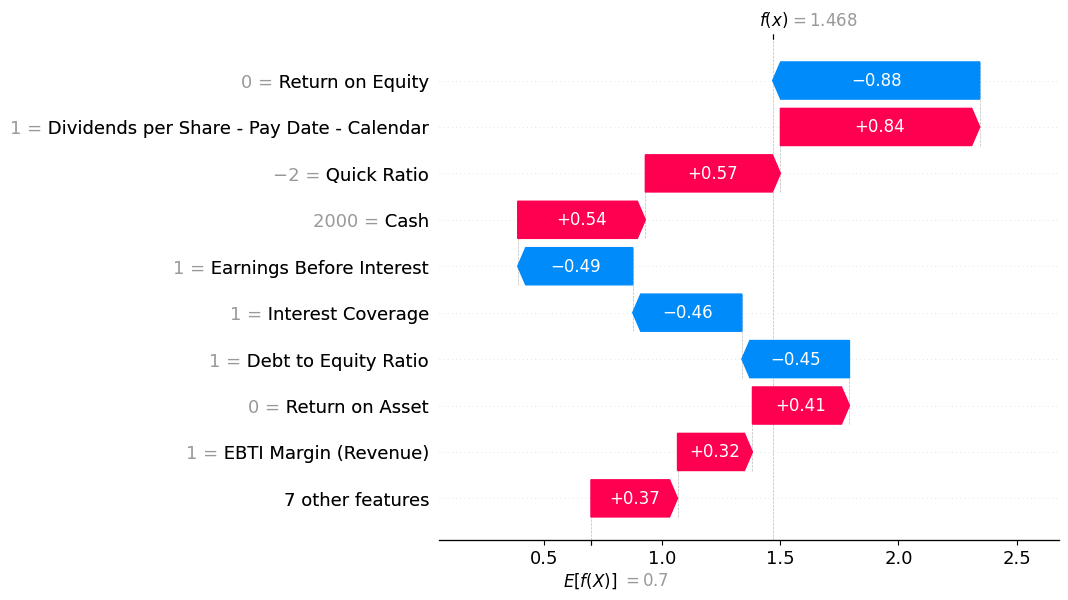
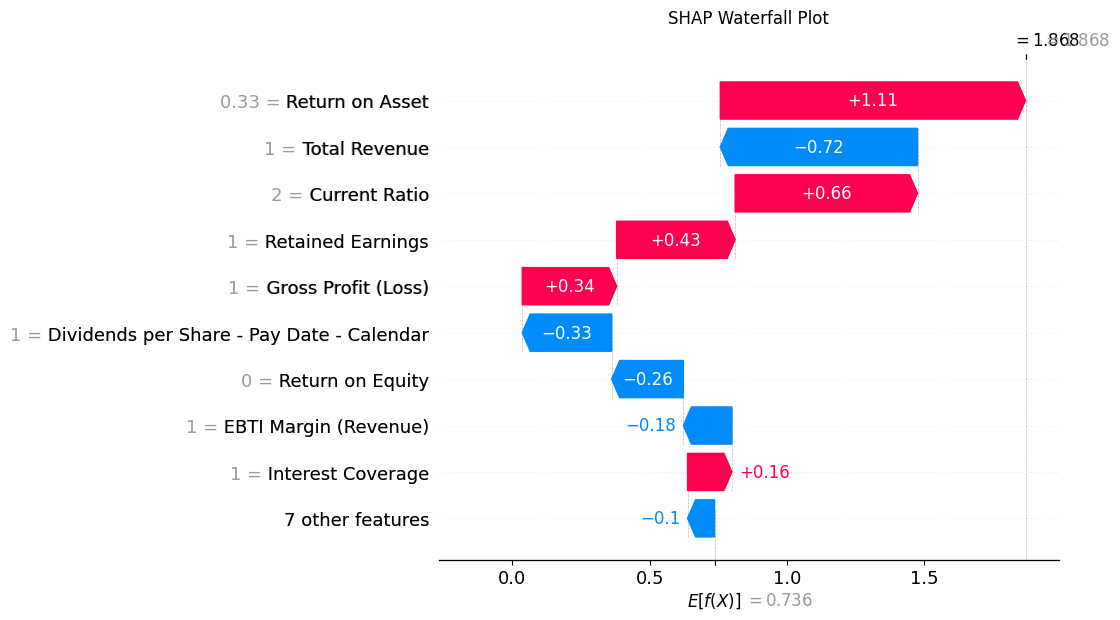
Removed redundant codes

diff --git a/credit_risk/risk_model/templates/risk_model/mypredictions.html b/credit_risk/risk_model/templates/risk_model/mypredictions.html
@@ -8,22 +8,6 @@
     <meta name="viewport" content="width=device-width, initial-scale=1.0">
     <title>Admin Dashboard</title>
 
-    <!-- <a href="{% url 'manage_users' %}" 
-    class="btn btn-secondary float-end"
-    style="display: inline-block; 
-           padding: 12px 20px; 
-           background-color: white; 
-           color: black; 
-           border-radius: 8px; 
-           text-align: center; 
-           text-decoration: none; 
-           font-size: 16px; 
-           margin-bottom: 10px; 
-           border: none; 
-           cursor: pointer;">
-    Manage Users
- </a> -->
-
     <!-- Include DataTables CSS -->
     <link rel="stylesheet" type="text/css" href="https://cdn.datatables.net/1.12.1/css/jquery.dataTables.min.css">
     
@@ -174,8 +158,6 @@
 </head>
 <body>
     <h1>View Your Predictions</h1>
-    <!-- <p>This is a secure area for authorized personnel only.</p> -->
-    <!-- <button onclick="window.location.href='{% url 'main_page' %}';">Back to Main Page</button> -->
     <div id="user-data" data-user-id="{{ request.session.user_id }}"></div>
 
     <h2>Edit Predictions</h2>
@@ -242,11 +224,6 @@
             {% endif %}
         </tbody>        
     </table>
-
- <!--    <div style="margin-top: 20px; text-align: center;">
-        <button onclick="window.location.href='{% url "export_to_pdf" %}'">Export to PDF</button>
-        <button onclick="window.location.href='{% url 'main_page' %}';">Back to Main Page</button>
-    </div> -->
 
     <div style="margin-top: 20px; text-align: center;  display: flex; justify-content: center; gap: 20px;">
         <button 
@@ -355,28 +332,6 @@
         });
     }
 });
-
-
-           /*  // Form submission logic (Add or update company)
-            $('#companyForm').submit(function(event) {
-                event.preventDefault();
-
-                const name = $('#name').val();
-                const revenue = $('#revenue').val();
-                const riskCategory = $('#riskCategory').val();
-
-                // Add a new row to the table
-                const table = $('#companyTable').DataTable();
-                table.row.add([
-                    name,
-                    revenue,
-                    riskCategory,
-                    '<button>Edit</button> <button>Delete</button>'
-                ]).draw();
-
-                // Reset the form
-                $('#companyForm')[0].reset();
-            }); */
         });
     </script>
 </body>

diff --git a/credit_risk/risk_model/templates/risk_model/admin.html b/credit_risk/risk_model/templates/risk_model/admin.html
@@ -225,11 +225,6 @@
         </tbody>
     </table>
 
- <!--    <div style="margin-top: 20px; text-align: center;">
-        <button onclick="window.location.href='{% url "export_to_pdf" %}'">Export to PDF</button>
-        <button onclick="window.location.href='{% url 'main_page' %}';">Back to Main Page</button>
-    </div> -->
-
     <div style="margin-top: 20px; text-align: center;  display: flex; justify-content: center; gap: 20px;">
         <button 
             style="padding: 15px 20px; font-size: 16px; margin-right: 10px; border-radius: 8px; background-color: white; color: black; border: none; cursor: pointer;" 
@@ -262,27 +257,6 @@
                 "info": true, // Show "Showing X to Y of Z entries"
                 "autoWidth": false // Adjust column width automatically
             });
-
-           /*  // Form submission logic (Add or update company)
-            $('#companyForm').submit(function(event) {
-                event.preventDefault();
-
-                const name = $('#name').val();
-                const revenue = $('#revenue').val();
-                const riskCategory = $('#riskCategory').val();
-
-                // Add a new row to the table
-                const table = $('#companyTable').DataTable();
-                table.row.add([
-                    name,
-                    revenue,
-                    riskCategory,
-                    '<button>Edit</button> <button>Delete</button>'
-                ]).draw();
-
-                // Reset the form
-                $('#companyForm')[0].reset();
-            }); */
         });
     </script>
 </body>

diff --git a/credit_risk/risk_model/templates/risk_model/show_prediction.html b/credit_risk/risk_model/templates/risk_model/show_prediction.html
@@ -24,6 +24,7 @@
             box-shadow: 0 4px 10px rgba(0, 0, 0, 0.1);
         }
         .btn-primary {
+            margin-top: 10px;
             background-color: #6a1b9a;
             border-color: #6a1b9a;
         }
@@ -130,8 +131,6 @@
 
         <!-- Additional Section for Exporting to PDF -->
         <div class="loading-section">
-            <h3>Predicted Credit Risk Rating</h3>
-            <p>Loading...</p> <!-- Placeholder for report generation -->
             <a href="{% url 'export_to_pdf' %}" class="btn btn-primary">Print to PDF</a>
         </div>
     </div>

diff --git a/credit_risk/risk_model/templates/risk_model/genreport.html b/credit_risk/risk_model/templates/risk_model/genreport.html
@@ -4,8 +4,6 @@
     <meta charset="UTF-8">
     <meta name="viewport" content="width=device-width, initial-scale=1.0">
     <title>Credit Risk Prediction</title>
-  <!--   <link rel="stylesheet" href="https://cdn.jsdelivr.net/npm/bootstrap@5.1.3/dist/css/bootstrap.min.css">
-    <link rel="stylesheet" type="text/css" href="https://cdn.datatables.net/1.12.1/css/jquery.dataTables.min.css"> -->
     <style>
     body {
         font-family: Arial, sans-serif;

diff --git a/credit_risk/risk_model/templates/risk_model/new_form.html b/credit_risk/risk_model/templates/risk_model/new_form.html
@@ -134,13 +134,5 @@
         </form>
         
     </div>
-
-   <!--  <script>
-        document.getElementById('newInputForm').addEventListener('submit', function(event) {
-            alert('Form Submitted Successfully!');
-            this.reset();
-        });
-    </script>
- -->
 </body>
 </html>

diff --git a/credit_risk/risk_model/views.py b/credit_risk/risk_model/views.py
@@ -1,20 +1,19 @@
 import numpy as np
 import pandas as pd
-import xgboost as xgb
 import pickle as pkl
 import matplotlib
 matplotlib.use("Agg")
 import matplotlib.pyplot as plt
-import seaborn as sbn
-from sklearn.metrics import roc_curve, confusion_matrix, auc
 import shap
 import os
 import markdown
+from django.http import HttpResponse
+from django.template.loader import get_template
+from xhtml2pdf import pisa
 from django.contrib.auth import login, logout
 from django.http import HttpResponse
 from django.contrib.auth.decorators import login_required
 from django.contrib.messages import get_messages
-import re
 from django.http import JsonResponse
 from django.contrib.auth.models import User
 from django.shortcuts import render
@@ -23,7 +22,6 @@ from django.urls import reverse
 from django.contrib import messages
 from .models import Company, UserInput, Prediction, CustomUser # Import models for saving User Input and predictions
 from django.views.decorators.csrf import csrf_exempt
-from .models import Prediction, UserInput
 import json
 
 # Load trained XG boost model
@@ -334,55 +332,12 @@ def companies_api(request):
 
     return JsonResponse({'status': 'error', 'message': 'Invalid request method'}, status=400)
 
-# def admin_login(request):
-#     if request.method == 'POST':
-#         username = request.POST.get('username')
-#         password = request.POST.get('password')
-#         # Mock admin login validation
-#         if username == 'admin' and password == 'password123':
-#             return JsonResponse({'success': True})
-#         return JsonResponse({'success': False})
-#     return JsonResponse({'error': 'Invalid method'}, status=400)
 
 # function to provide explanation for predicted risk 
 def XGB_XAI(input_df):
-    # input_data = {
-    #     "cash": 50000.0,  # Lowercase keys
-    #     "total_inventory": 120000.0,
-    #     "non_current_asset": 100000.0,
-    #     "current_liability": 80000.0,
-    #     "gross_profit": 250000.0,
-    #     "retained_earnings": 100000.0,
-    #     "earnings_before_interest": 75000.0,
-    #     "dividends_per_share": 2.5,
-    #     "total_stockholders_equity": 300000.0,
-    #     "total_market_value": 500000.0,
-    #     "total_revenue": 1000000.0,
-    #     "net_cash_flow": 150000.0,
-    #     "total_long_term_debt": 200000.0,
-    #     "total_interest_and_related_expense": 25000.0,
-    #     "sales_turnover_net": 900000.0,
-    #     # "cash": 500.0,  # Very low cash reserves
-    #     # "total_inventory": 200000.0,  # High inventory that may not be liquid
-    #     # "non_current_asset": 300000.0,  # High fixed assets that are not easily convertible to cash
-    #     # "current_liability": 250000.0,  # High current liabilities
-    #     # "gross_profit": 50000.0,  # Low gross profit compared to revenue
-    #     # "retained_earnings": -20000.0,  # Negative retained earnings indicating losses
-    #     # "earnings_before_interest": 15000.0,  # Low earnings before interest
-    #     # "dividends_per_share": 0.0,  # No dividend payments, possible financial stress
-    #     # "total_stockholders_equity": 50000.0,  # Low equity
-    #     # "total_market_value": 100000.0,  # Low valuation compared to liabilities
-    #     # "total_revenue": 500000.0,  # Moderate revenue but low profitability
-    #     # "net_cash_flow": -50000.0,  # Negative cash flow, indicating financial trouble
-    #     # "total_long_term_debt": 400000.0,  # High long-term debt burden
-    #     # "total_interest_and_related_expense": 50000.0,  # High interest payments
-    #     # "sales_turnover_net": 400000.0,  # Slow turnover, low efficiency
-    # }
-
+    
     predicted_risk_binary = model.predict(input_df)[0]
     predicted_risk_rating = reverse_mapping.get(predicted_risk_binary)
-
-    #predicted_risk_proba = model.predict_proba(input_df)[:, 1]
 
     X_train = data.drop(columns=["Risk Rating"])
     feature_name = X_train.columns
@@ -400,9 +355,7 @@ def XGB_XAI(input_df):
         "Feature": feature_name,
         "User Input": input_df.iloc[0].values,
         "Lowest Risk Avg": lowest_risk_avg.values,
-        "Difference": input_df.iloc[0].values - lowest_risk_avg.values,
         f"SHAP VALUE ({predicted_risk_rating})": shap_values_input[0, :, predicted_risk_binary],
-        #f"SHAP VALUE ({reverse_mapping.get(1)})": shap_values_input[0, :, 1],
         f"SHAP VALUE ({reverse_mapping.get(0)})": shap_values_input[0, :, 0],
     }).round(2)
 
@@ -414,12 +367,12 @@ def XGB_XAI(input_df):
                         data=input_df.iloc[0].values, 
                         feature_names=feature_name
                     )
-    
 
 
     # Generate and save the SHAP waterfall plot
     plt.figure(figsize=(8, 6))
     shap.plots.waterfall(shap_explanation, show=False)
+    plt.title("SHAP Waterfall Plot")
     plt.savefig(shap_plot_path, bbox_inches="tight")  # Save to static folder
     plt.close("all")
 
@@ -450,10 +403,7 @@ def indiv_assesment(shap_interpretation: pd.DataFrame, user_rating):
         feature = row["Feature"]
         user_val = row["User Input"]
         low_risk_avg = row["Lowest Risk Avg"]
-        diff = row["Difference"]
         shap_user = row[f"SHAP VALUE ({user_rating})"]
-        low_risk_shap = row["SHAP VALUE (Lowest Risk)"]
-        shap_diff = shap_user - low_risk_shap # Difference in shap value
 
         suggestions = ""
         if user_val < low_risk_avg:
@@ -488,12 +438,6 @@ def indiv_assesment(shap_interpretation: pd.DataFrame, user_rating):
         "explanation": markdown.markdown(explanation),
         "recommendations": recommendations,
     }
-
-
-
-from django.http import HttpResponse
-from django.template.loader import get_template
-from xhtml2pdf import pisa
 
 def export_to_pdf(request):
     # Fetch data from the database

diff --git a/credit_risk/risk_model/models.py b/credit_risk/risk_model/models.py
@@ -18,30 +18,6 @@ class CustomUser(models.Model):
         return f"{self.username} ({self.role})"
 
 # Model to store user inputs for credit risk prediction
-# class UserInput(models.Model):
-#     user = models.ForeignKey(
-#         User, on_delete=models.CASCADE, related_name="user_inputs"
-#     )
-#     cash = models.FloatField()  # User's cash amount
-#     total_inventory = models.FloatField()  # Total inventory
-#     non_current_asset = models.FloatField()  # Non-current assets
-#     current_liability = models.FloatField()  # Current liabilities
-#     gross_profit = models.FloatField()  # Gross profit
-#     retained_earnings = models.FloatField()  # Retained earnings
-#     earnings_before_interest = models.FloatField()  # Earnings before interest
-#     dividends_per_share = models.FloatField()  # Dividends per share
-#     total_stockholders_equity = models.FloatField()  # Total stockholders' equity
-#     total_market_value = models.FloatField()  # Total market value
-#     total_revenue = models.FloatField()  # Total revenue
-#     net_cash_flow = models.FloatField()  # Net cash flow
-#     total_long_term_debt = models.FloatField()  # Total long-term debt
-#     total_interest_and_related_expense = models.FloatField()  # Total interest and related expense
-#     sales_turnover_net = models.FloatField()  # Sales turnover (net)
-#     created_at = models.DateTimeField(default=now) # Automatically store the creation time
-
-#     def __str__(self):
-#         return f"UserInput {self.id} - Created on {self.created_at}"  # string representation for debugging/admin
-
 class UserInput(models.Model):
     user = models.ForeignKey(
         CustomUser, on_delete=models.CASCADE, related_name="user_inputs"  # Use CustomUser instead of User
